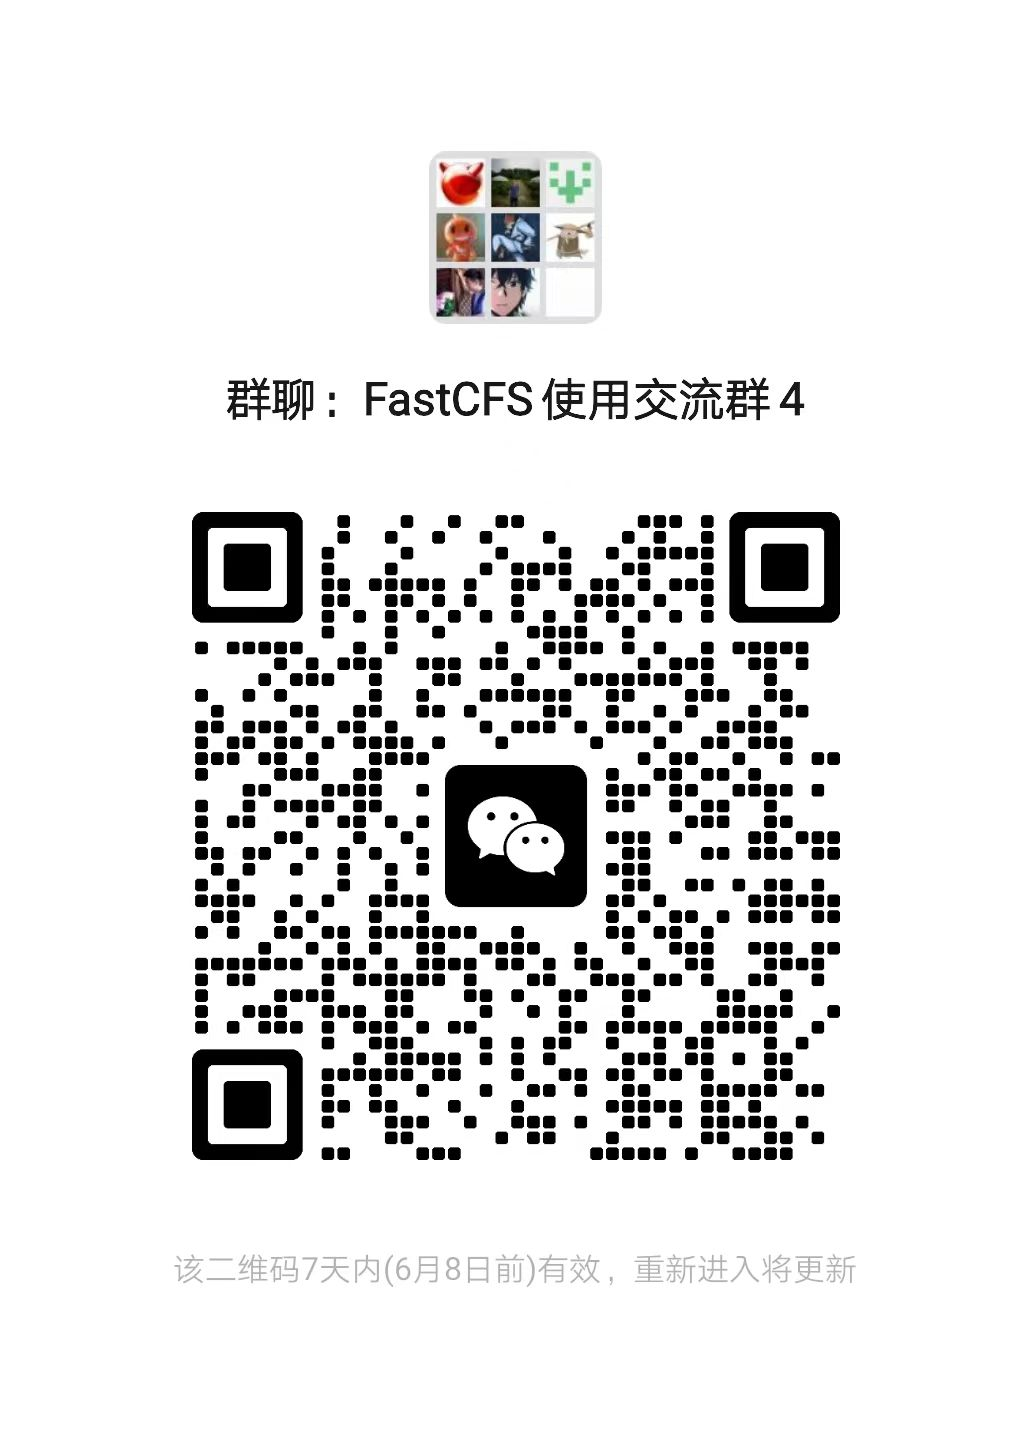
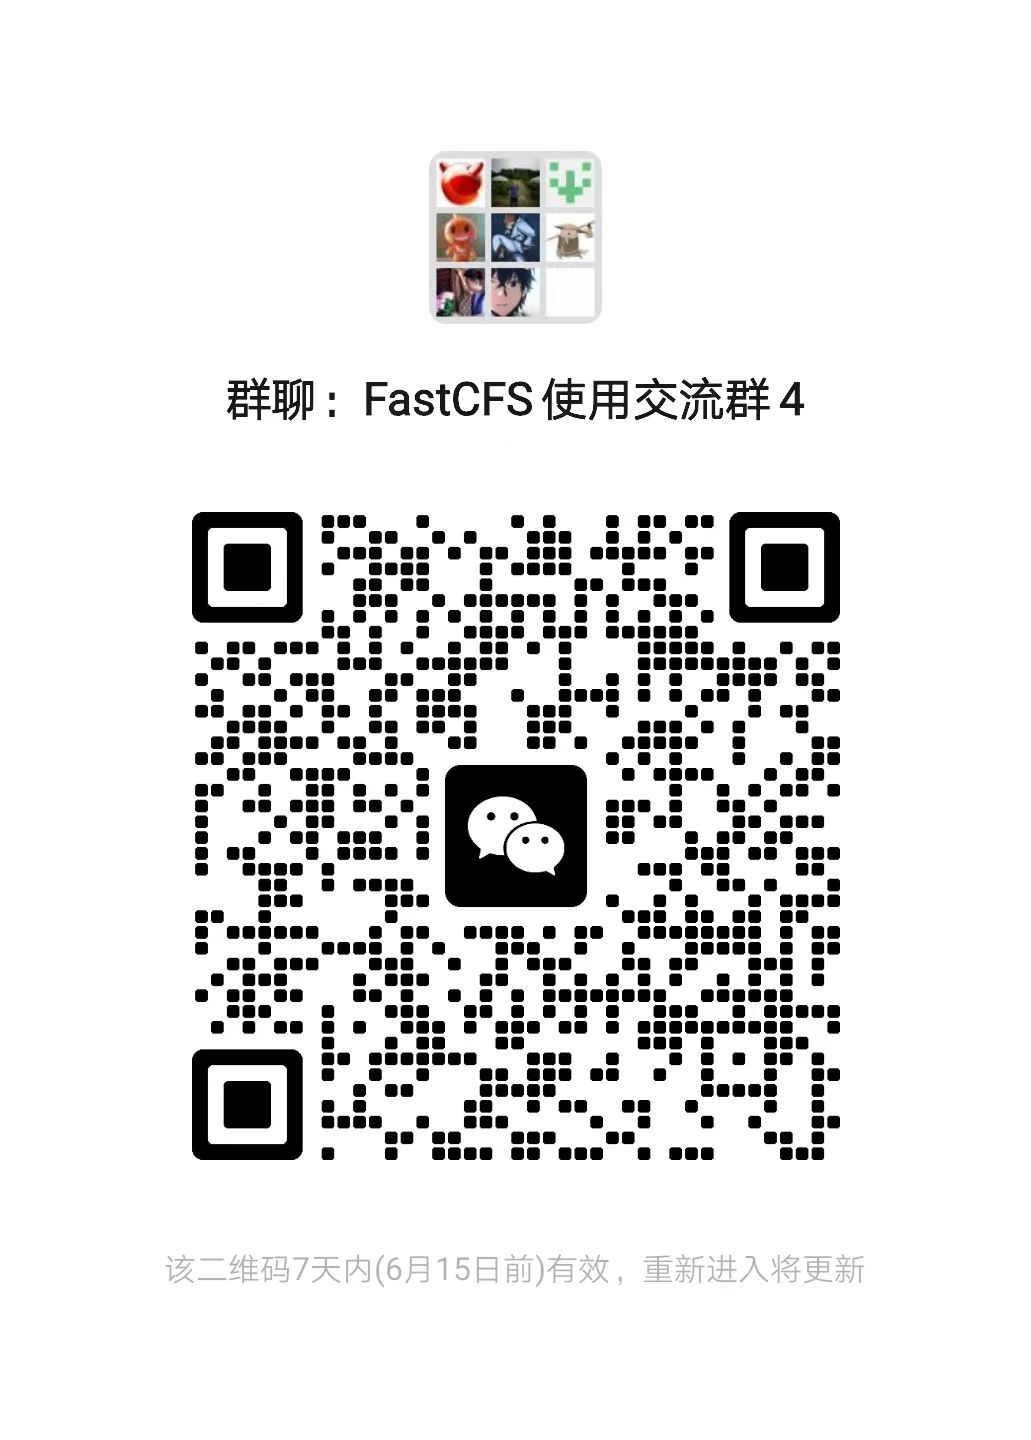
images/wechat_group.jpg refreshed

diff --git a/docs/fcfs-ops-tool-zh_CN.md b/docs/fcfs-ops-tool-zh_CN.md
@@ -11,13 +11,19 @@ fcfs.sh 是一个用于快速部署和管理 FastCFS 集群的脚本工具。它
 
 ***注： 该脚本工具目前适用于以下操作系统：***
 
-* CentOS 7、CentOS 8；
-* Red Hat Linux 8 及以上版本；
-* Rocky Linux 8 及以上版本；
-* Fedora Linux 20 及以上版本；
-* Oracle Linux 8 及以上版本；
-* Debian 10 及以上版本；
-* Ubuntu 18 及以上版本；
+* CentOS 7 和 CentOS 8
+* Red Hat Linux 8 及以上版本
+* Rocky Linux 8 及以上版本
+* Anolis 7及以上版本
+* AlmaLinux 7及以上版本
+* Fedora Linux 20 及以上版本
+* Oracle Linux 8 及以上版本
+* Amazon Linux
+* Alibaba Cloud Linux
+* openEuler
+* Kylin V10及以上版本
+* Debian 10 及以上版本
+* Ubuntu 18 及以上版本
 
 <a name="fcfs.sh"></a>
 ### 1.1. 这个工具能做什么？

diff --git a/README-zh_CN.md b/README-zh_CN.md
@@ -22,7 +22,7 @@ FastCFS 是一款强一致性、高性能、高可用、支持百亿级海量文
 * **高性能计算**：高可靠和高性能的FastCFS，天然适合高性能计算场景；
 * **视频监控**：FastCFS采用顺序写盘方式，使用SATA硬盘也可保证多路视频流畅写入。
 
-## 2. 当前版本：V4.0.0
+## 2. 当前版本：V4.0
 
 [FastCFS重大版本一览](docs/version-history-zh_CN.md)
 

diff --git a/README.md b/README.md
@@ -27,9 +27,7 @@ FastCFS can be used as the back-end storage of databases (MySQL, PostgresSQL, Or
 * **Video monitoring**: smooth writing for multi-channel videos with HDD such as SATA because FastCFS uses sequential writing approach
 
 
-## 2. Current Version
-
-V4.0.0
+## 2. Current Version: V4.0
 
 ## 3. Supported Platforms
 
